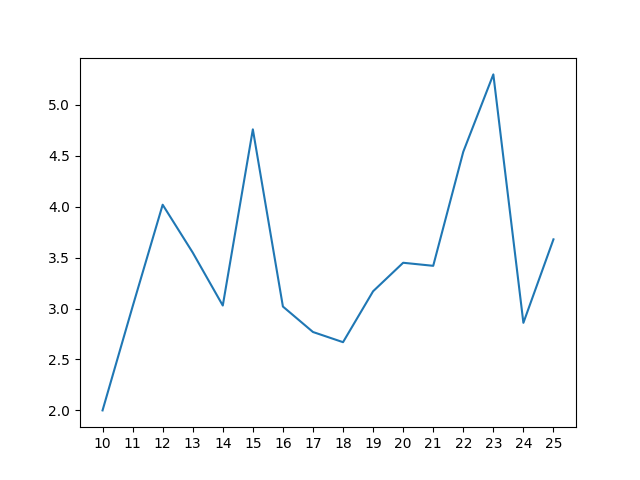
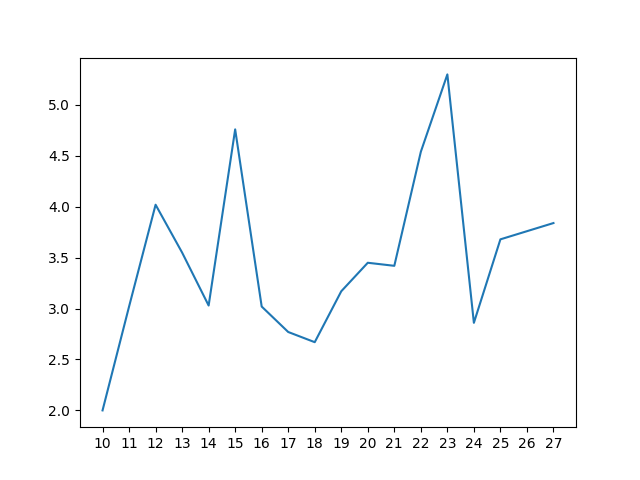
.

diff --git a/running/templates/running/index.html b/running/templates/running/index.html
@@ -1,5 +1,5 @@
 {% load static %}
-<h1>Số ngày chạy liên tiếp</h1>
+<h1>Số ngày chạy liên tiếp: {{consecutive_day }}</h1>
 
 <h1>Biểu đồ chạy</h1>
 <img src="{% static 'running/images/distance.png' %}">

diff --git a/running/data.py b/running/data.py
@@ -1,4 +1,4 @@
 running_list = [2, 3.02, 4.02, 3.55, 3.03, 4.76, 3.02, 2.77, 2.67,
-                3.17, 3.45, 3.42, 4.54, 5.3, 2.86, 3.68]
+                3.17, 3.45, 3.42, 4.54, 5.3, 2.86, 3.68, 3.76, 3.84]
 running_time_list = [30, 30, 30, 30, 30, 45, 30, 30,
-                     30, 30, 30, 30, 45, 45, 30, 30]
+                     30, 30, 30, 30, 45, 45, 30, 30, 30, 30]

diff --git a/running/generate_graph.py b/running/generate_graph.py
@@ -1,7 +1,7 @@
 import matplotlib.pyplot as plt
 from datetime import datetime, timedelta
 
-from running.data import running_list, running_time_list
+from data import running_list, running_time_list
 
 start_date = datetime(year=2023, month=4, day=10)
 end_date = datetime.now()

diff --git a/running/views.py b/running/views.py
@@ -5,4 +5,4 @@ from .data import running_list
 
 
 def index(request):
-    return render(request, "running/index.html", {})
+    return render(request, "running/index.html", {"consecutive_day": len(running_list)})
